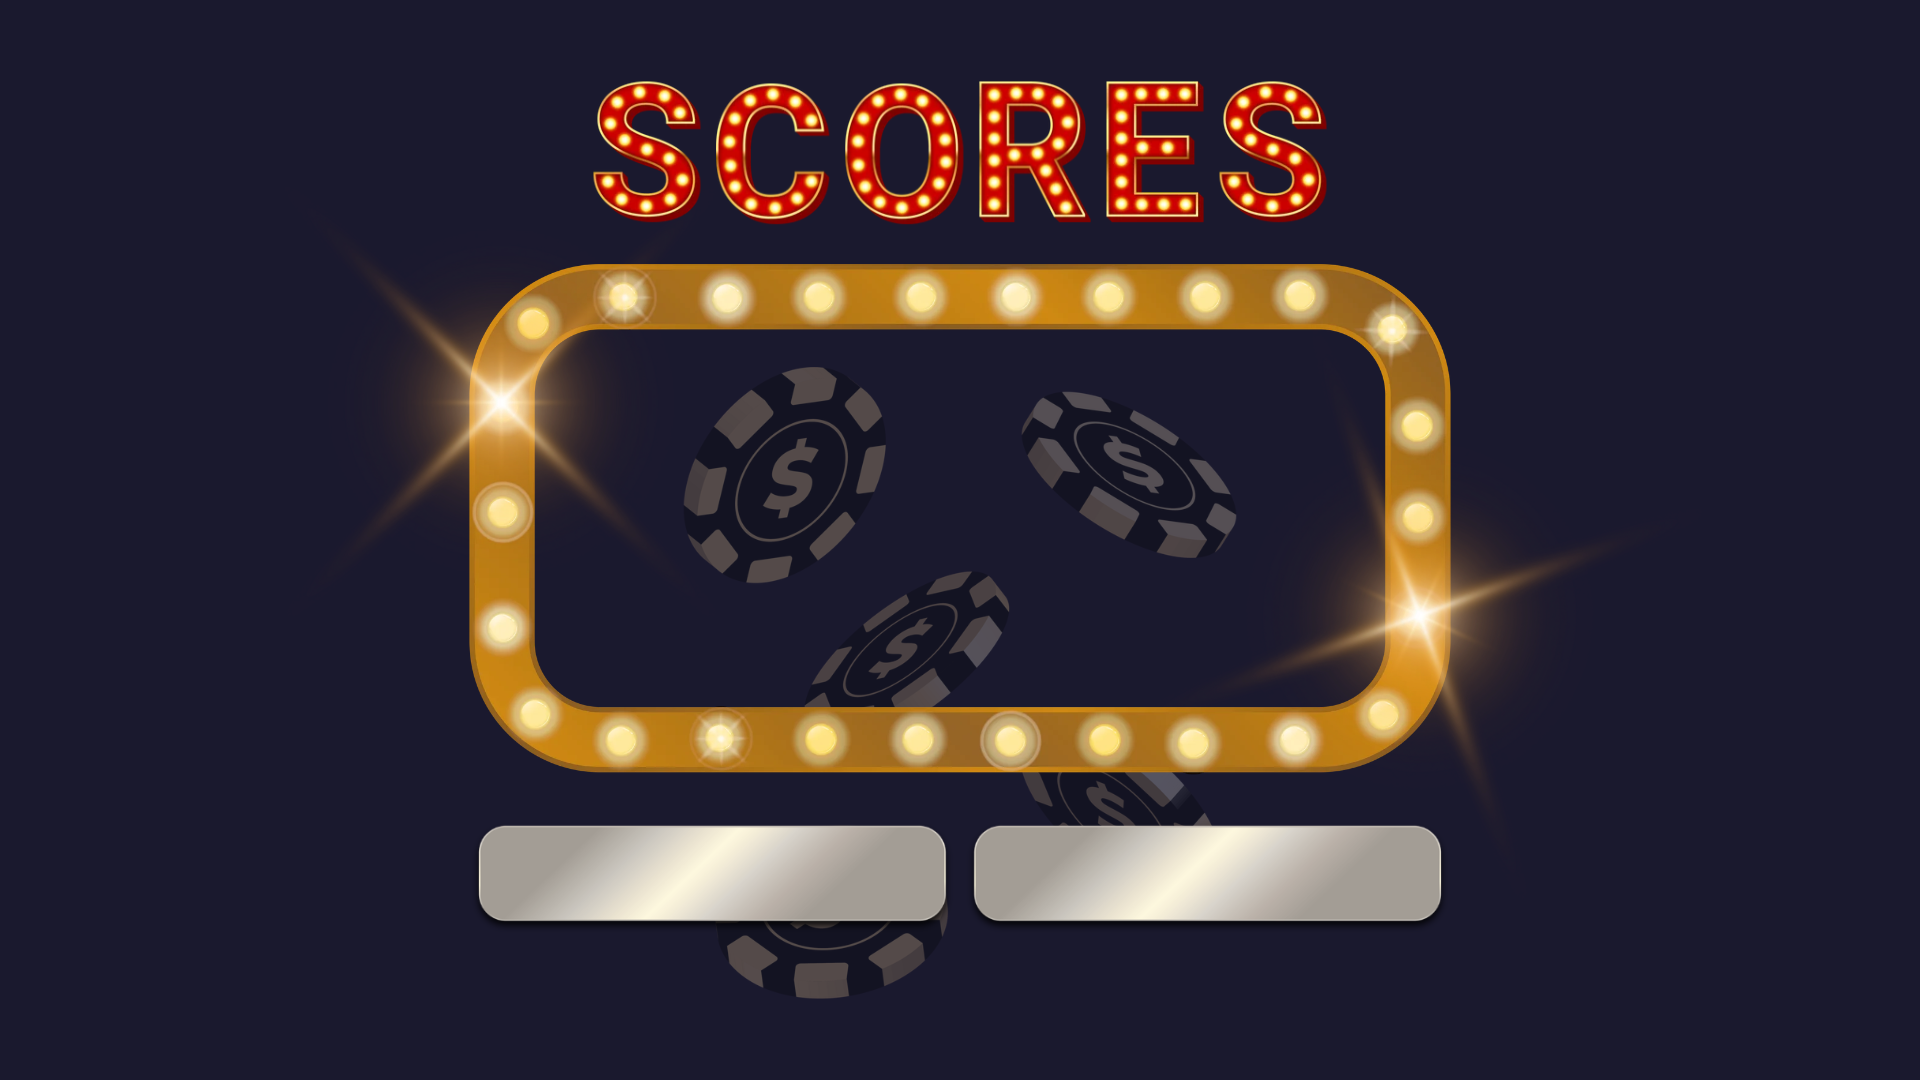
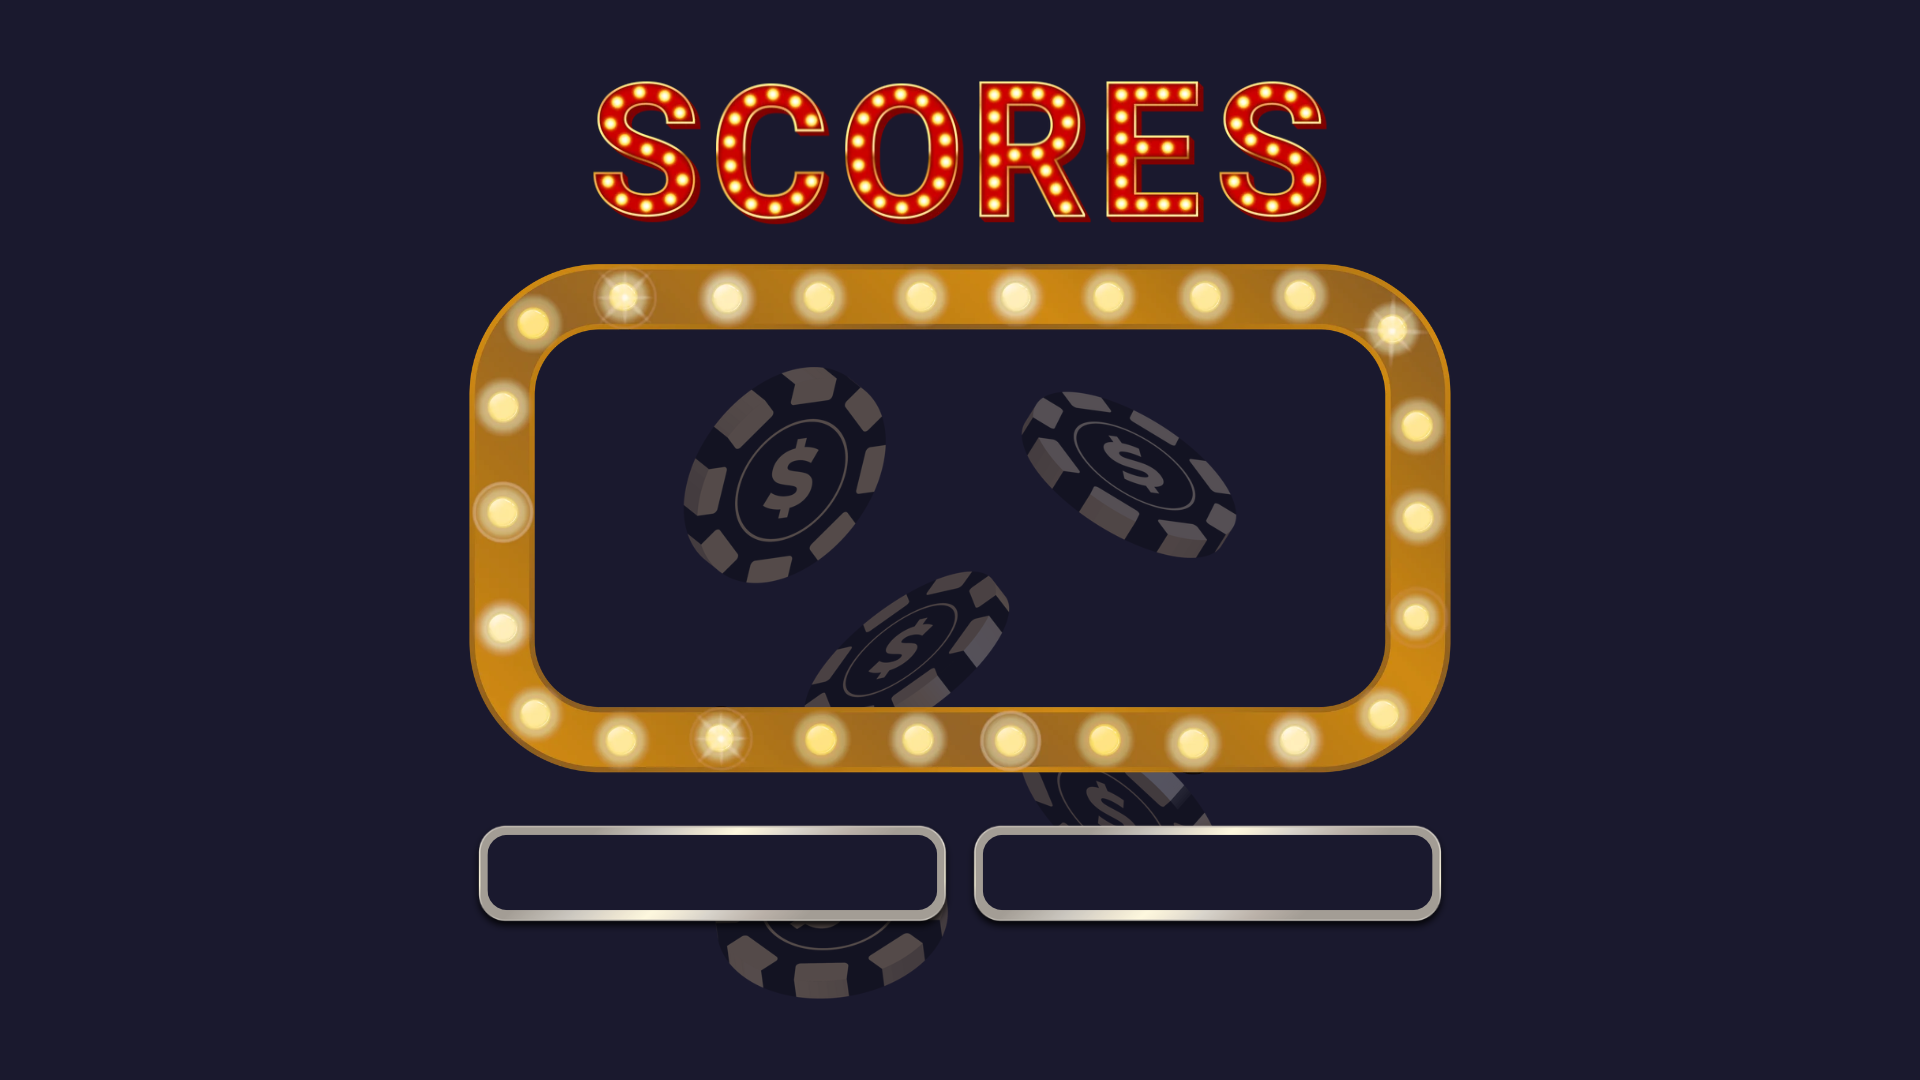
Add Sparkles

Changed region(s): [[0.25, 0.7639, 0.75, 0.8556], [0.6562, 0.4278, 0.8125, 0.7028], [0.1875, 0.275, 0.3125, 0.4889]]

diff --git a/Assets/Scripts/SparkleLoop.cs b/Assets/Scripts/SparkleLoop.cs
@@ -1,0 +1,40 @@
+
+using UnityEngine;
+using UnityEngine.UI;
+using System.Collections;
+
+public class SparkleLoop : MonoBehaviour
+{
+    [Header("Rotation")]
+    public Vector3 rotationSpeed = new Vector3(0f, 0f, 90f);
+
+    [Header("Twinkle")]
+    public float twinkleSpeed = 3f;
+    public float minScale = 0.7f;
+    public float maxScale = 1.2f;
+
+    private Vector3 originalScale;
+    private float randomOffset;
+
+    void Start()
+    {
+        originalScale = transform.localScale;
+        randomOffset = Random.Range(0f, 10f);
+    }
+
+    void Update()
+    {
+        transform.Rotate(
+            rotationSpeed * Time.deltaTime,
+            Space.Self
+        );
+
+        float t = (Mathf.Sin(
+            Time.time * twinkleSpeed + randomOffset
+        ) + 1f) / 2f;
+
+        float scale = Mathf.Lerp(minScale, maxScale, t);
+
+        transform.localScale = originalScale * scale;
+    }
+}
